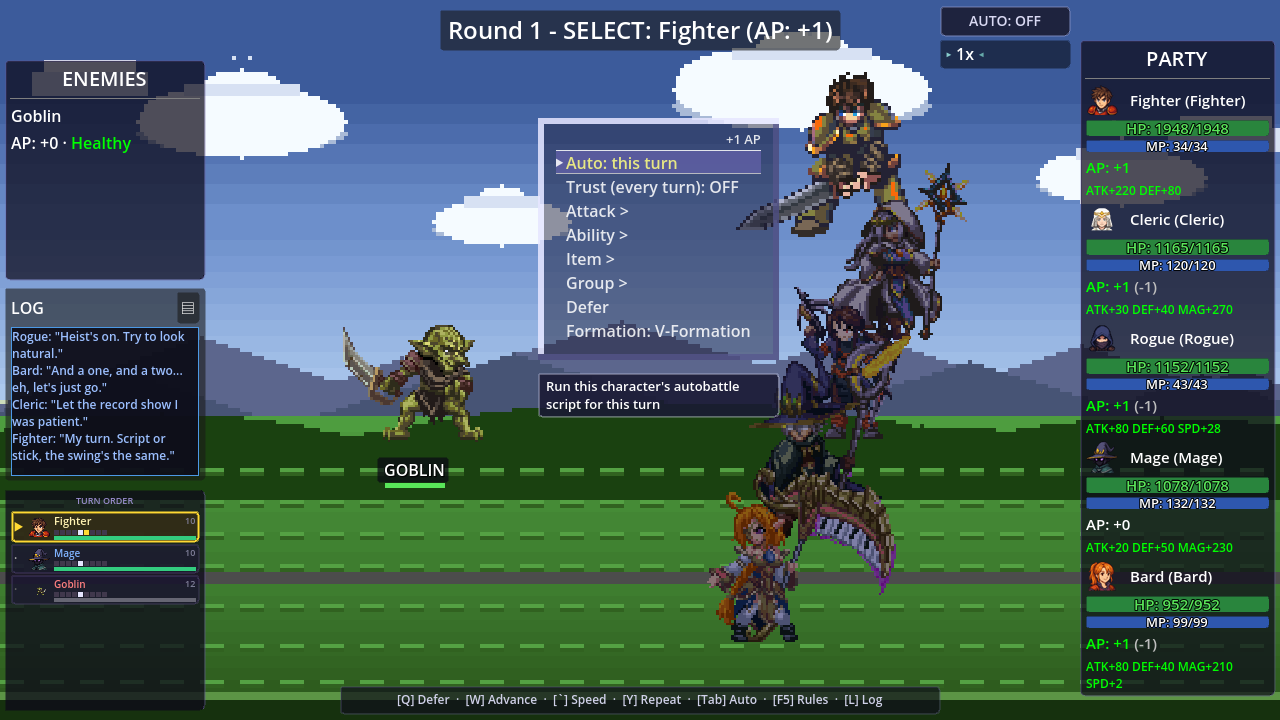
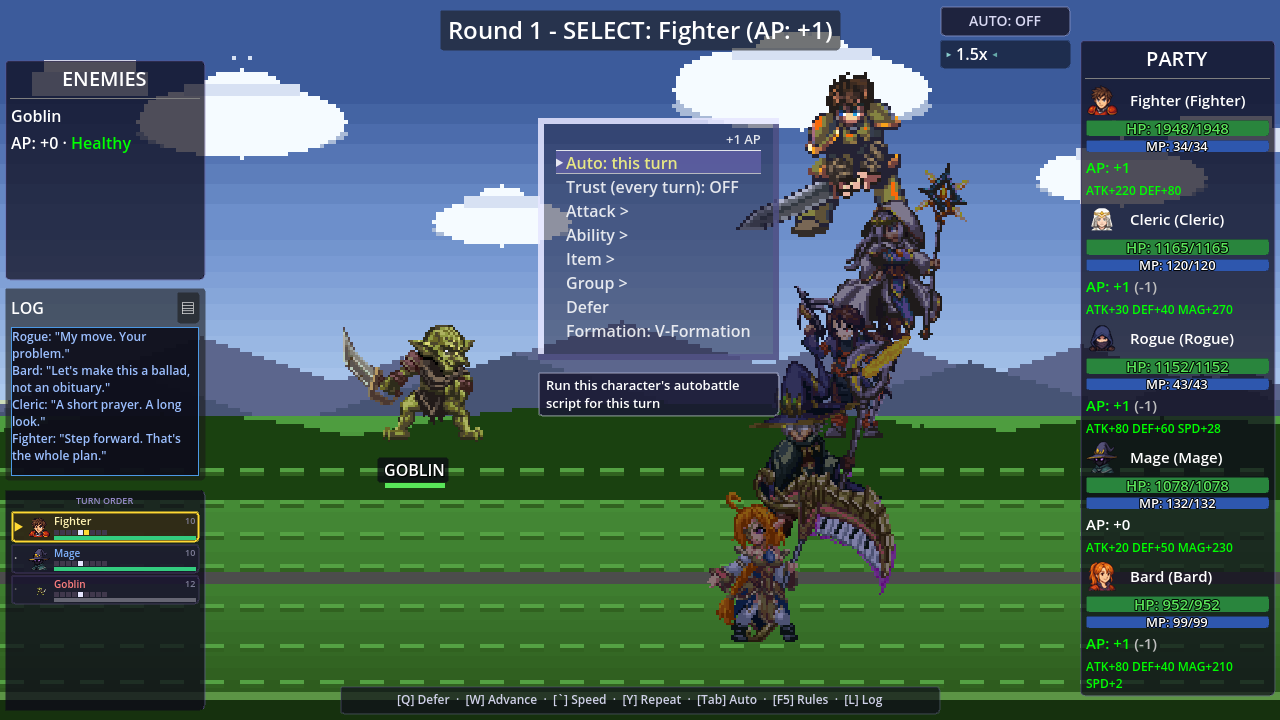
store assets: the battle shot shows the 1.5x speed a player starts at
The shipped battle.png was the .710 frame (byte-identical to capture-history/shots-710), taken
before 47b98083f made 1.5x the default battle speed; its speed chip read 1x, which no fresh
player has seen since .750. Replaced with the .752 frame from the sandboxed run of 21f990b47
(runs a/b: 0.0000% of pixels over 24 levels). The banter quotes in CAPTIONS are updated to
the new frame.

frosthold_village, reported as drifted 12.0%, is a pure 1px camera shift (residual 0.000% after
shifting), so it is not re-shot.

Claude-Session: https://claude.ai/code/session_01W2qjrDSfZUL4M11aPpJvXX

diff --git a/itch-assets/CAPTIONS.md b/itch-assets/CAPTIONS.md
@@ -71,7 +71,7 @@ mechanically than the frame shows.
 ⛔ **2026-10-24: the lead image is the OLDEST frame in the gallery.** It is byte-identical to
 `capture-history/shots-225/battle_storm.png`, a `.225` capture, so a store visitor's first look is
 the UI from ~485 releases ago: empty HP bars, banter mixed with `selecting...` status lines, no
-LOG panel. `battle.png` beside it is now the `.710` frame. Two `.710` frames with a real storm
+LOG panel. `battle.png` beside it is now the `.752` frame. Two `.710` frames with a real storm
 are in `unshipped-captures/` (from `tools/store_shot_storm.gd`, run sandboxed; the cast lands
 this time as Fulmen at the Mage's tier, killing blow on the Goblin, `WEAK!` against the Imp):
 - `battle_storm.710-bolt.png`: burst frame 51, the brightest bolt frame (3,598 px above 235).
@@ -99,9 +99,12 @@ The same five-job battle, weather pinned clear, with the command menu open on **
 turn`** and the tooltip legible: *"Run this character's autobattle script for this turn"*. The
 next row is **`Trust (every turn): OFF`**, and the menu still ends in **`Formation: V-Formation`**.
 HP and MP now draw as filled bars, the turn order bottom-left carries portraits, and the banter
-sits in its own LOG panel — Rogue *"Heist's on. Try to look natural."*, Bard *"And a one, and a
-two... eh, let's just go."*, Cleric *"Let the record show I was patient."*, Fighter *"My turn.
-Script or stick, the swing's the same."* (`v3.33.710-alpha` frame.)
+sits in its own LOG panel — Rogue *"My move. Your problem."*, Bard *"Let's make this a ballad,
+not an obituary."*, Cleric *"A short prayer. A long look."*, Fighter *"Step forward. That's the
+whole plan."* The speed chip reads **`1.5x`**, the default since `47b98083f` (2026-10-30, in every
+build from `.750` on). (`v3.33.752-alpha` frame, 2026-10-31; two runs agree to 0.0000% of pixels.
+The `.710` frame it replaces showed `1x`, which no fresh player sees any more; it is kept at
+`capture-history/shots-710/battle.png`.)
 
 📌 The hint bar reads `` [Q] Defer · [W] Advance · [`] Speed · [Y] Repeat · [Tab] Auto · [F5] Rules · [L] Log `` because no gamepad was
 connected to the capture box. Earlier frames read `[L] Defer · [R] Advance`; a pad plugged into
